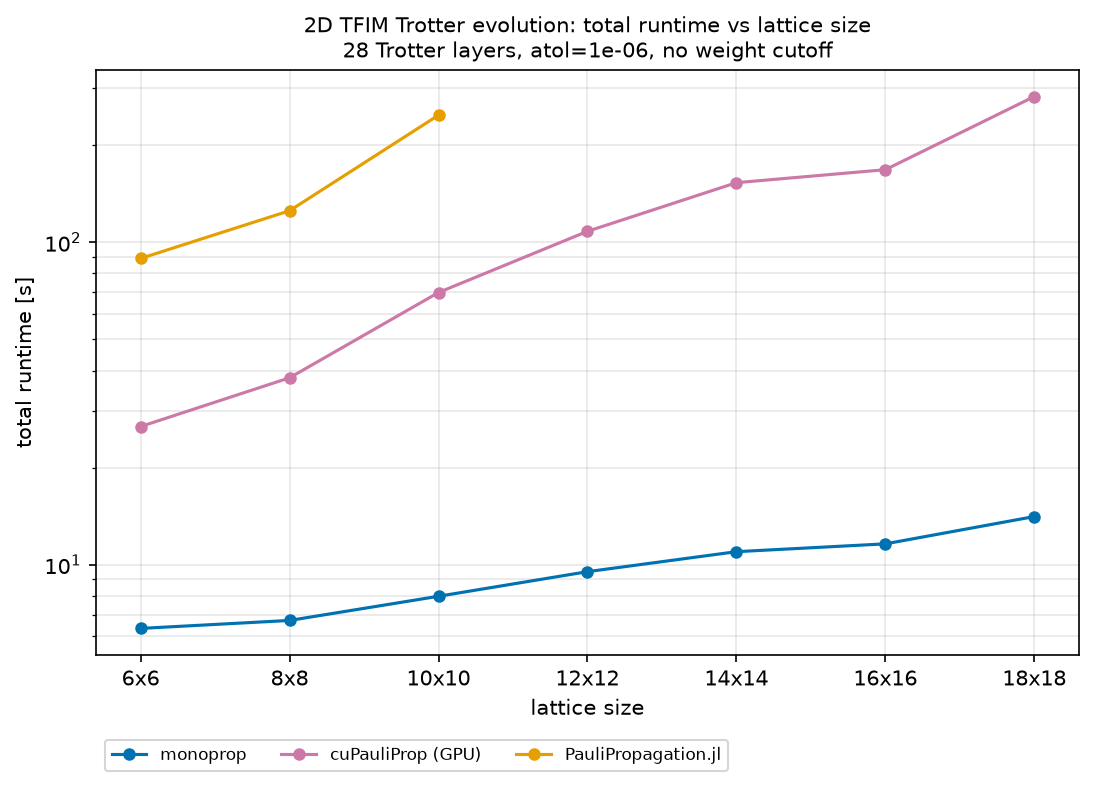
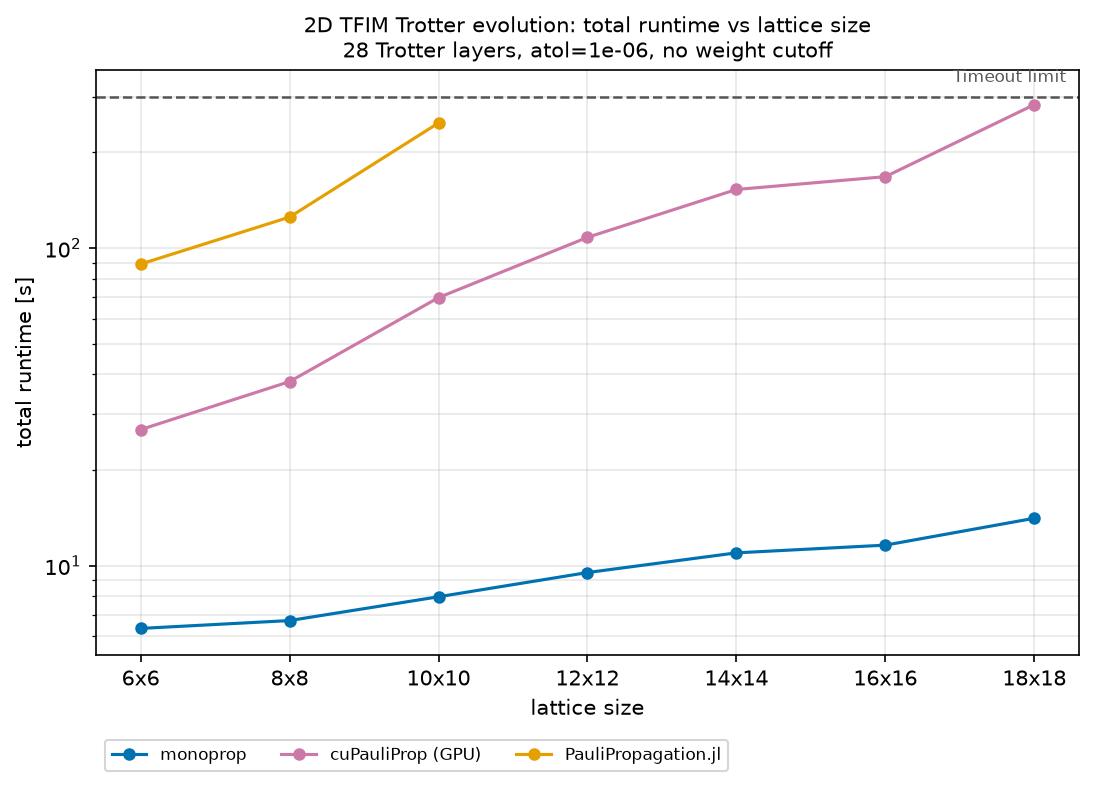
fix: timeout annotation in plot.

diff --git a/packages/bench-third-party/pauli_prop/plot_scaling.py b/packages/bench-third-party/pauli_prop/plot_scaling.py
@@ -18,7 +18,8 @@ Reads the JSONL written by run_scaling.py (one or more files) and draws one curv
 backend, as two standalone figures — `pauli_scaling_runtime.png` and
 `pauli_scaling_memory.png` — plus a `pauli_scaling.md` sidecar holding the same numbers
 as a table and the provenance of each backend's points. A backend's curve simply ends at
-the last size it completed; why it stopped is in the table, not on the axes.
+the last size it completed; the runtime figure marks the timeout threshold when the result
+records specify one.
 """
 
 from __future__ import annotations
@@ -215,6 +216,17 @@ def _grid_ticks(records: list[dict]) -> tuple[list[int], list[str]]:
     return list(grids), list(grids.values())
 
 
+def _timeout_limit(records: list[dict]) -> float | None:
+    """Return the common timeout limit recorded by failed runs, if unambiguous."""
+    limits = {
+        float(match.group(1))
+        for record in records
+        if record.get("status") == "timeout"
+        and (match := re.search(r"exceeded ([0-9.]+)s", record.get("detail", "")))
+    }
+    return limits.pop() if len(limits) == 1 else None
+
+
 def layers(records: list[dict]) -> str:
     """How many Trotter layers every curve carries, for the title.
 
@@ -329,9 +341,22 @@ def _plot_axes(ax, records, key, ylabel) -> None:
         sides, values = _series(records, label, key)
         if not sides:
             continue
-        # A curve simply ends at the last size the backend completed; the per-size status
-        # (timeout / killed) is in the table and the JSONL, not drawn on the axes.
+        # A curve ends at the last size the backend completed; per-size status remains in
+        # the table and JSONL, while the common timeout threshold is shown below.
         ax.plot(sides, values, "o-", color=COLORS[label], label=label, markersize=5)
+    if key == "total_runtime_s" and (timeout := _timeout_limit(records)) is not None:
+        ax.axhline(timeout, color="#555555", linestyle="--", linewidth=1.2)
+        ax.annotate(
+            "Timeout limit",
+            xy=(1, timeout),
+            xycoords=("axes fraction", "data"),
+            xytext=(-6, 5),
+            textcoords="offset points",
+            ha="right",
+            va="bottom",
+            fontsize="small",
+            color="#555555",
+        )
     ticks, tick_labels = _grid_ticks(records)
     ax.set_xticks(ticks)
     ax.set_xticklabels(tick_labels)
